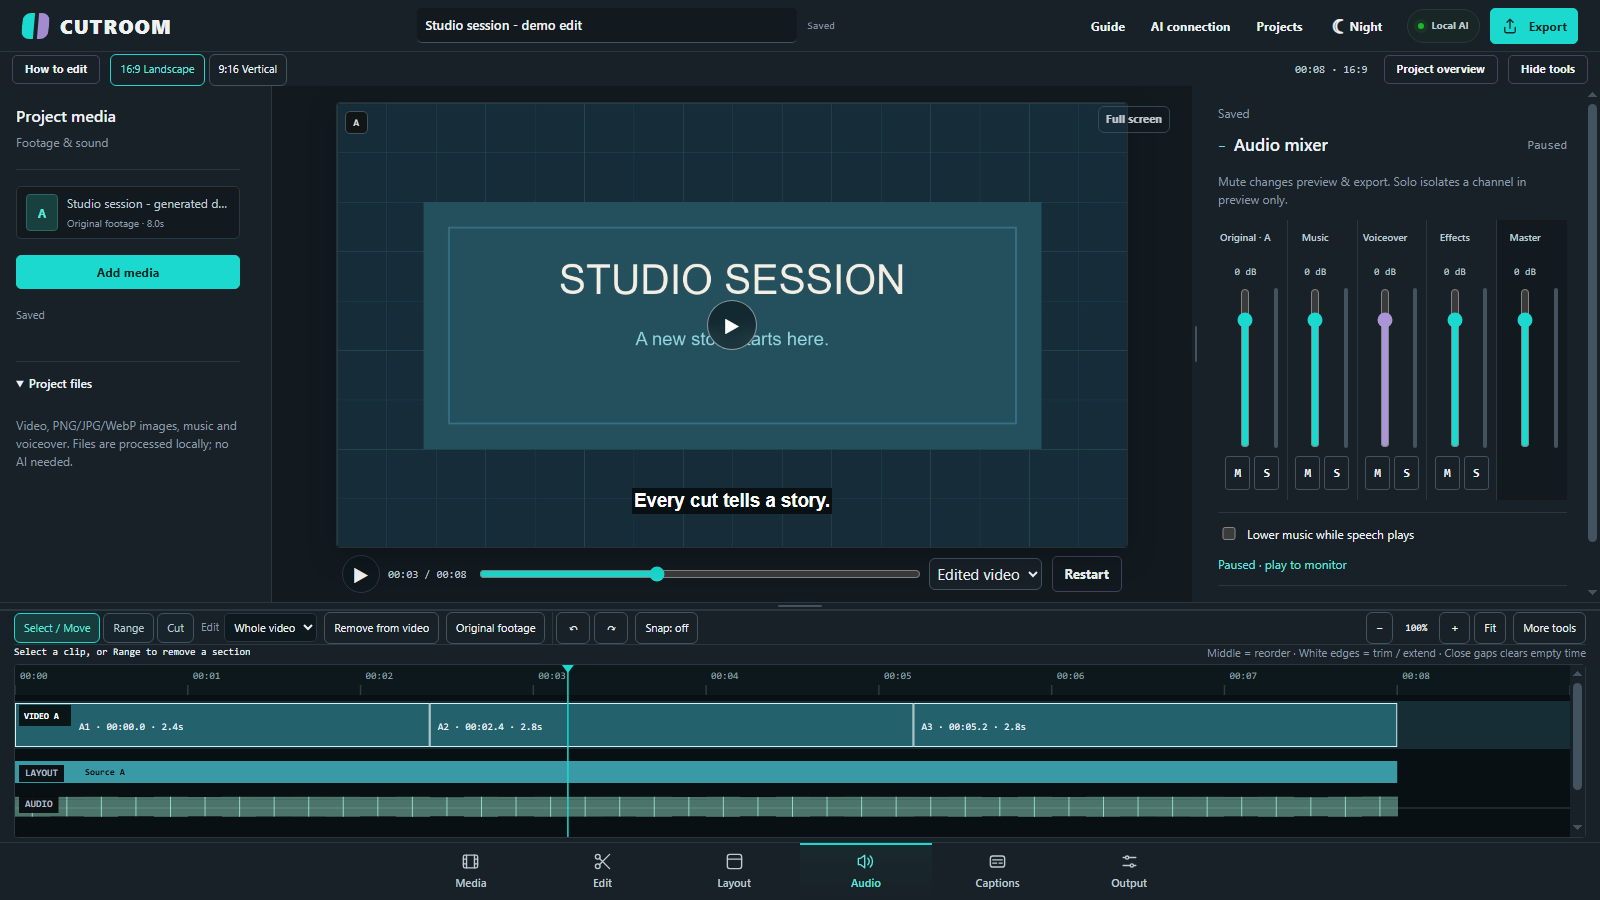
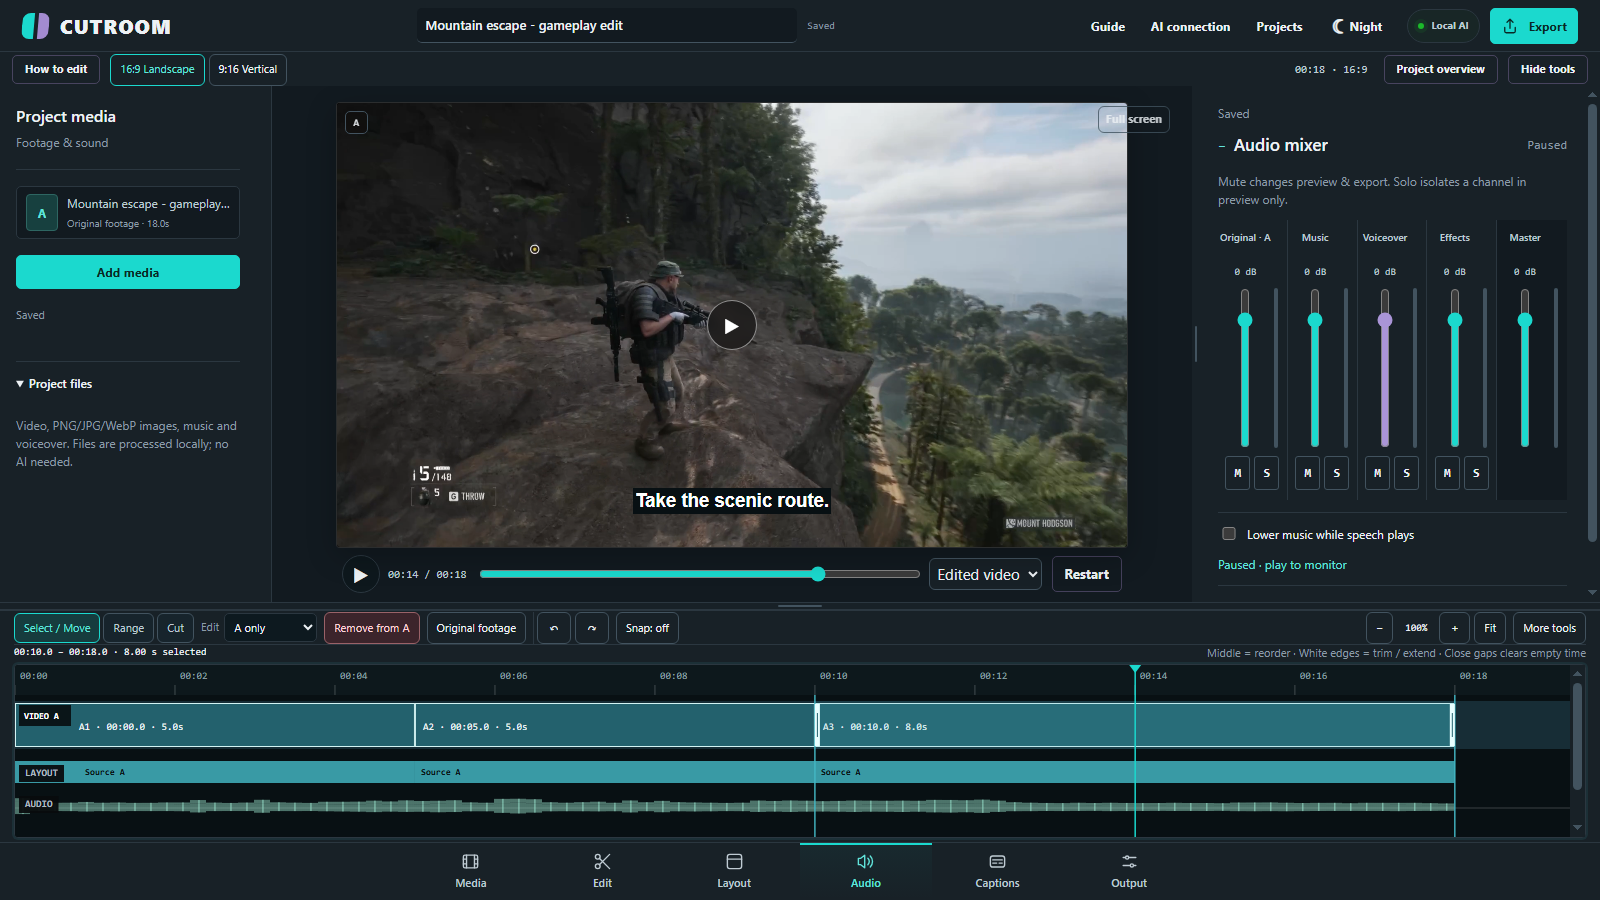
docs: show real gameplay in README editor screenshots

diff --git a/README.md b/README.md
@@ -23,7 +23,7 @@ CUTROOM brings your camera recordings, screen captures and gameplay into an **ed
 
 The source is MIT-licensed, with no CUTROOM subscription or export watermark. Optional cloud AI uses your own provider account; its quotas and charges are separate.
 
-> **Current development preview:** the three screenshots below show a real local build captured on 4 October 2026. This interface is still being revised and **is not included in the published 1.1 Beta downloads**. All three use the same synthetic demo project and dark theme; they do not demonstrate AI editing quality.
+> **Current development preview:** the three screenshots below show a real local build captured on 4 October 2026. This interface is still being revised and **is not included in the published 1.1 Beta downloads**. All three show the same frame from a locally recorded gameplay project in the dark theme; they do not demonstrate AI editing quality.
 
 <p align="center">
   <a href="docs/images/readme/development-editor-20261004.png"><img src="docs/images/readme/development-editor-20261004.png" alt="Development preview: CUTROOM editor with project media, video preview, clip controls and a three-clip timeline" width="1200"></a>
